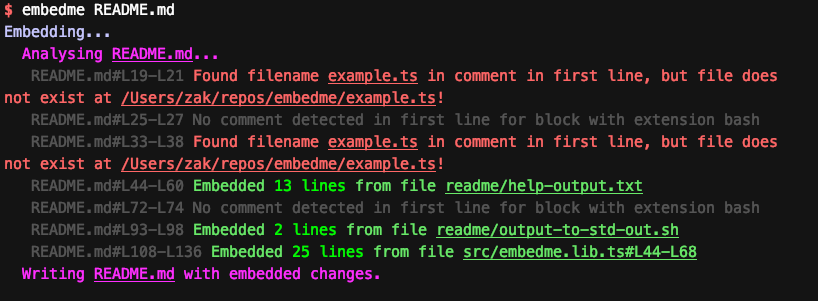
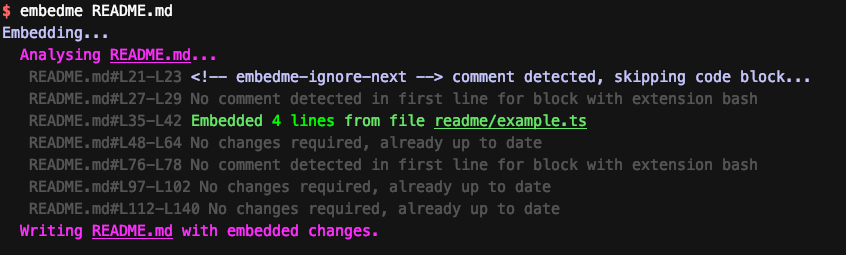
fix(Code Fence): Fix edge case where empty code fences caused an off by one error

Changed region(s): [[0.0, 0.0, 0.978, 0.9608]]

diff --git a/src/embedme.lib.ts b/src/embedme.lib.ts
@@ -152,15 +152,12 @@ function getReplacement(
   options: EmbedmeOptions,
   logMethod: ReturnType<typeof logBuilder>,
   substr: string,
+  leadingSpaces: string,
   codeExtension: SupportedFileType,
   firstLine: string | null,
   startLineNumber: number,
+  ignoreNext: boolean,
 ): string {
-  if (!firstLine || !codeExtension) {
-    // @todo add log
-    return substr;
-  }
-
   /**
    * Re-declare the log class, prefixing each snippet with the file and line number
    * Note that we couldn't have derived the line count in the parent regex matcher, as we don't yet know how long the
@@ -173,6 +170,22 @@ function getReplacement(
 
     logMethod(logPrefix, ...messages);
   };
+
+  if (!firstLine) {
+    log({ returnSnippet: substr }, chalk.blue(`Code block is empty, skipping...`));
+    return substr;
+  }
+
+  if (!codeExtension) {
+    log({ returnSnippet: substr }, chalk.blue(`No code extension detected, skipping code block...`));
+    return substr;
+    return substr;
+  }
+
+  if (ignoreNext) {
+    log({ returnSnippet: substr }, chalk.blue(`<!-- embedme-ignore-next --> comment detected, skipping code block...`));
+    return substr;
+  }
 
   const supportedFileTypes: SupportedFileType[] = Object.values(SupportedFileType).filter(x => typeof x === 'string');
 
@@ -273,7 +286,7 @@ function getReplacement(
     return Math.min(minSpaces, leadingSpaces[0].length);
   }, Infinity);
 
-      lines = lines.map(line => line.slice(minimumLeadingSpaces));
+  lines = lines.map(line => line.slice(minimumLeadingSpaces));
 
   const outputCode = lines.join('\n');
 
@@ -289,15 +302,27 @@ function getReplacement(
     return substr;
   }
 
-  const replacement = options.stripEmbedComment
+  let replacement = options.stripEmbedComment
     ? `\`\`\`${codeExtension}
 ${outputCode}
 \`\`\``
     : `\`\`\`${codeExtension}
-${firstLine}
+${firstLine.trim()}
 
 ${outputCode}
 \`\`\``;
+
+  if (leadingSpaces.length) {
+    replacement = replacement
+      .split('\n')
+      .map(line => leadingSpaces + line)
+      .join('\n');
+  }
+
+  if (replacement === substr) {
+    log({ returnSnippet: substr }, chalk.gray(`No changes required, already up to date`));
+    return substr;
+  }
 
   log(
     { returnSnippet: replacement },
@@ -321,7 +346,7 @@ export function embedme(sourceText: string, inputFilePath: string, options: Embe
   /**
    * Match a codefence, capture groups around the file extension (optional) and first line starting with // (optional)
    */
-  const codeFenceFinder: RegExp = /```([\S]*)$\n([\s\S]*?$)?([\s\S]*?)\n?```/gm;
+  const codeFenceFinder: RegExp = /([ \t]*?)```([\s\S]*?)^[ \t]*?```/gm;
 
   const docPartials = [];
 
@@ -329,7 +354,14 @@ export function embedme(sourceText: string, inputFilePath: string, options: Embe
 
   let result: RegExpExecArray | null;
   while ((result = codeFenceFinder.exec(sourceText)) !== null) {
-    const [substr, codeExtension, firstLine] = result;
+    const [codeFence, leadingSpaces] = result;
+    const start = sourceText.substring(previousEnd, result.index);
+
+    const extensionMatch = codeFence.match(/```(\S*)/);
+
+    const codeExtension = extensionMatch ? extensionMatch[1] : null;
+    const splitFence = codeFence.split('\n');
+    const firstLine = splitFence.length >= 3 ? splitFence[1] : null;
 
     /**
      * Working out the starting line number is slightly complex as the logic differs depending on whether or not we are
@@ -347,17 +379,16 @@ export function embedme(sourceText: string, inputFilePath: string, options: Embe
       inputFilePath,
       options,
       log,
-      substr,
+      codeFence,
+      leadingSpaces,
       codeExtension as SupportedFileType,
       firstLine,
       startLineNumber,
+      /<!--\s*?embedme-ignore-next\s*?-->/g.test(start),
     );
 
-    const start = sourceText.substring(previousEnd, result.index);
-
-    previousEnd = codeFenceFinder.lastIndex;
-
     docPartials.push(start, replacement);
+    previousEnd = codeFenceFinder.lastIndex;
   }
 
   return [...docPartials].join('') + sourceText.substring(previousEnd);

diff --git a/src/embedme.ts b/src/embedme.ts
@@ -1,6 +1,6 @@
 #!/usr/bin/env node
 
-import { readFileSync, writeFileSync } from 'fs';
+import { existsSync, readFileSync, writeFileSync } from 'fs';
 import { relative, resolve } from 'path';
 import { embedme, EmbedmeOptions, logBuilder } from './embedme.lib';
 import program from 'commander';
@@ -51,9 +51,15 @@ if (options.verify) {
 }
 
 sourceFiles.forEach(source => {
-  const sourceText = readFileSync(source, 'utf-8');
-
   const resolvedPath = resolve(source);
+
+  if (!existsSync(source)) {
+    log(chalk.red(`  File ${chalk.underline(relative(process.cwd(), resolvedPath))} does not exist.`));
+    process.exit(1);
+    return;
+  }
+
+  const sourceText = readFileSync(source, 'utf-8');
 
   const outText = embedme(sourceText, resolvedPath, options);
 
@@ -65,7 +71,11 @@ sourceFiles.forEach(source => {
   } else if (options.stdout) {
     process.stdout.write(outText);
   } else if (!options.dryRun) {
-    log(chalk.magenta(`  Writing ${chalk.underline(relative(process.cwd(), resolvedPath))} with embedded changes.`));
-    writeFileSync(source, outText);
+    if (sourceText !== outText) {
+      log(chalk.magenta(`  Writing ${chalk.underline(relative(process.cwd(), resolvedPath))} with embedded changes.`));
+      writeFileSync(source, outText);
+    } else {
+      log(chalk.magenta(`  No changes to write for ${chalk.underline(relative(process.cwd(), resolvedPath))}`));
+    }
   }
 });

diff --git a/readme/example.ts b/readme/example.ts
@@ -1,0 +1,3 @@
+export function helloWorld(name: string): string {
+  return `Hello ${name}!, how are you today?`;
+}

diff --git a/README.md b/README.md
@@ -6,13 +6,15 @@ Simple utility to embed source files into markdown code blocks <sup>[why tho?](#
 [![Build Status](https://travis-ci.org/zakhenry/embedme.svg?branch=master)](https://travis-ci.org/zakhenry/embedme)
 [![Commitizen friendly](https://img.shields.io/badge/commitizen-friendly-brightgreen.svg)](https://commitizen.github.io/cz-cli/)
 
-![Console Output](readme/screenshot.png "Console Output")
+![Console Output](readme/screenshot.png 'Console Output')
 
 ## Usage
 
 With a `README.md` in your current working directory, add a code block for one of the
 [supported file types](#supported-file-types-so-far) and start the code block simply with a comment with the path to a
 file. For example
+
+<!-- embedme-ignore-next -->
 
     This is a *markdown* document with a code block:
 
@@ -31,10 +33,12 @@ Et voilà! Your README.md file will be updated with the content of your source f
     This is a *markdown* document with a code block:
 
     ```ts
-    // example.ts
-    export function hello(name: string): string {
+    // readme/example.ts
+
+    export function helloWorld(name: string): string {
       return `Hello ${name}!, how are you today?`;
     }
+
     ```
 
 As the comment is preserved, you can happily re-run `embedme` and it will run again but there will be no changes.

diff --git a/test/fixture.md b/test/fixture.md
@@ -17,7 +17,6 @@ Typescript
 export function hello(): string {
   return 'Hello World';
 }
-
 ```
 
 Javascript
@@ -26,7 +25,6 @@ Javascript
 // sample.js
 
 console.log('Hello World');
-
 ```
 
 HTML
@@ -35,7 +33,6 @@ HTML
 <!-- sample.html -->
 
 <h1>Hello world</h1>
-
 ```
 
 Python
@@ -166,7 +163,6 @@ SCSS
     border: 1px solid red;
   }
 }
-
 ```
 
 PHP
@@ -229,8 +225,7 @@ Yaml
 # sample.yaml
 
 hello:
-   - world
-
+  - world
 ```
 
 Ruby
@@ -286,28 +281,55 @@ static void Main()
     ```ts
     // sample.ts
 
-export function hello(): string {
-  return 'Hello World';
-}
+    export function hello(): string {
+      return 'Hello World';
+    }
 
+    ```
+
+## Embedme Ignore
+
+<!-- embedme-ignore-next -->
+
+```ts
+// sample.ts
 ```
 
 ## Errors
+
+### Empty block
+
+```ts
+```
+
+### No file handler
 
 ```binary
 01001000 01100101 01101100 01101100 01101111 00100000 01010111 01101111 01110010 01101100 01100100
 ```
 
+### No file extension
+
 ```
 Ignored block
 ```
+
+### Bad file format
 
 ```ts
 // Not a file
 ```
 
+### Also bad file format
+
 ```ts
 // also-not-a-file
+```
+
+### Missing file
+
+```txt
+// this-file-does-not-exist.txt
 ```
 
 ### Contains Codefence
